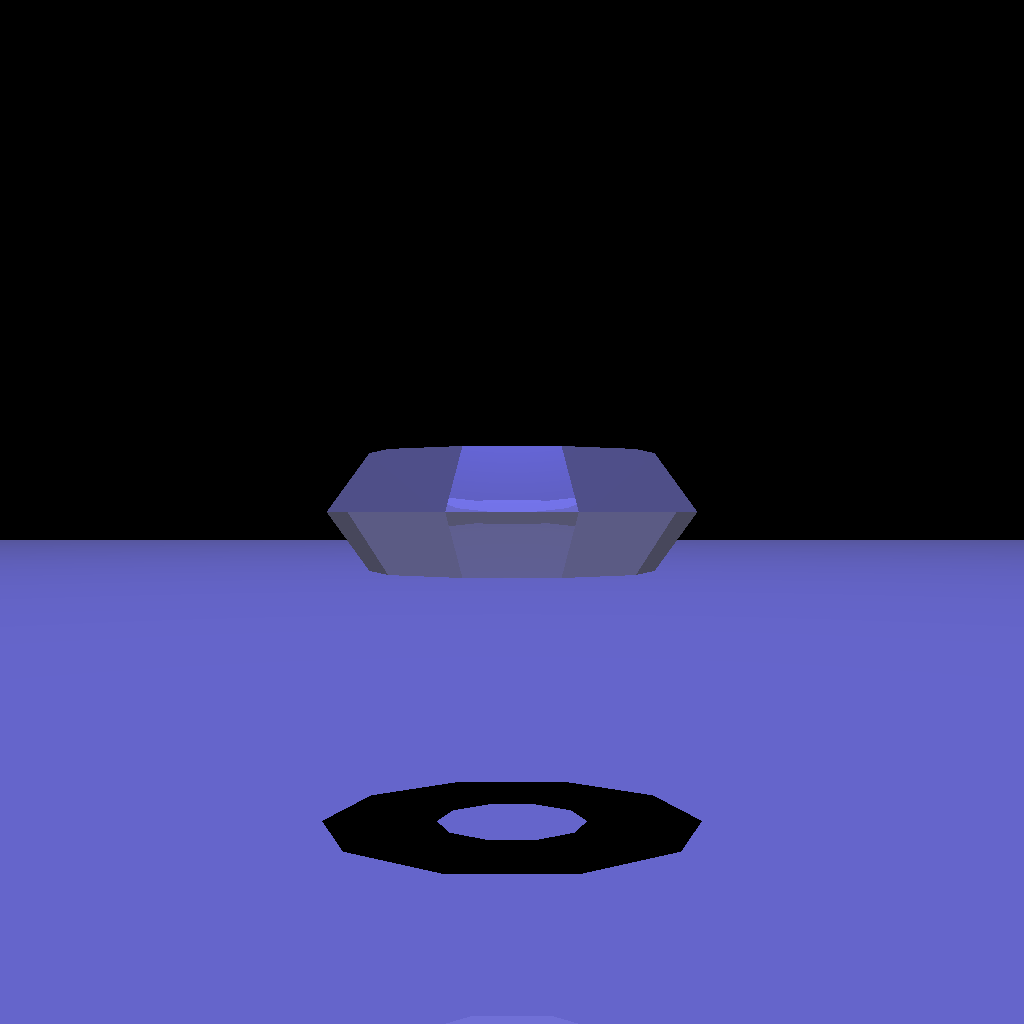
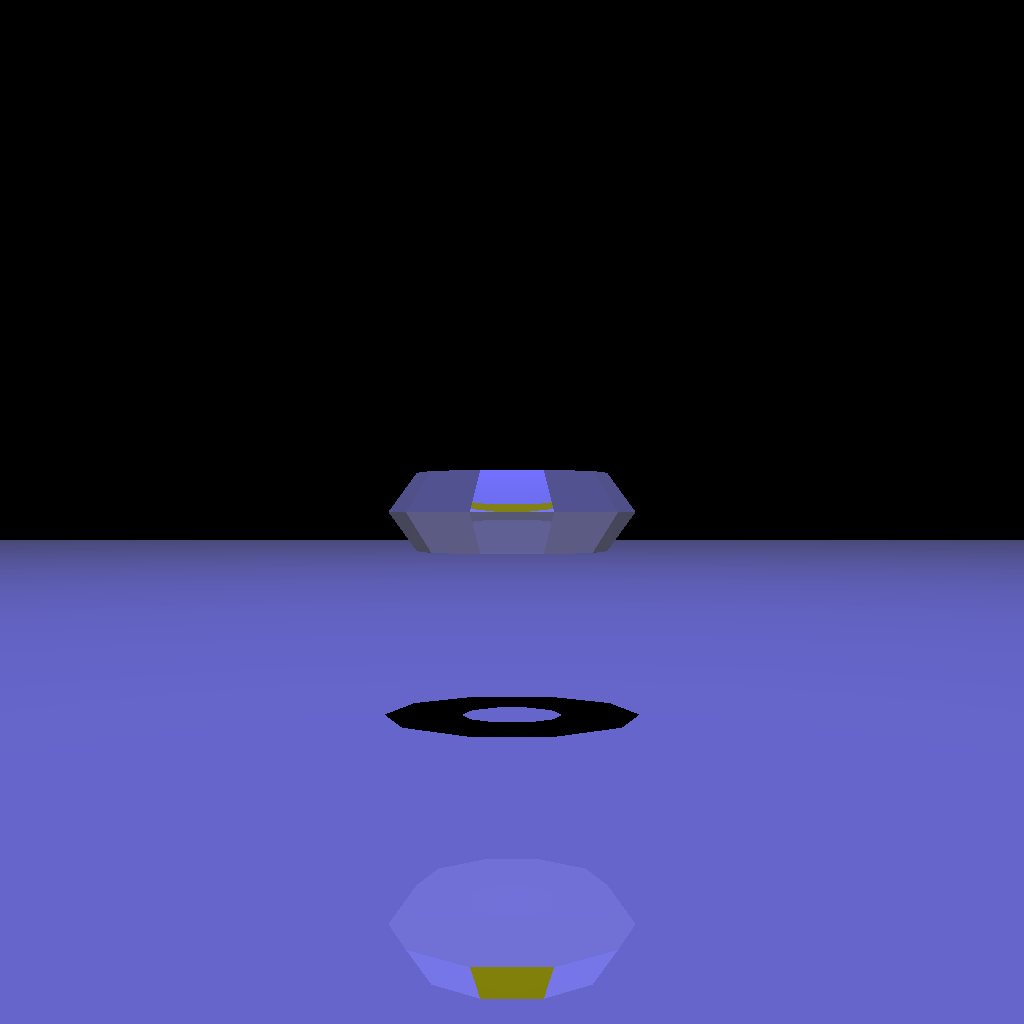
texture load order error should be fixed

diff --git a/PhysicallyBasedRendering/RayTracingSceneManager.cpp b/PhysicallyBasedRendering/RayTracingSceneManager.cpp
@@ -8,25 +8,27 @@ void RayTracingSceneManager::InitializeObjects()
 
 	SceneObject obj;
 	//obj.LoadModel("Obj/Fluid/0200.obj");
+	//obj.LoadModel("Obj/CornellBox.obj");
 	obj.LoadModel("Obj/torus.obj");
-	
+
 	sceneObjs.push_back(obj);
 
 	cameraInitPos = movingCamera->GetWorldPosition();
 
 	Light light;
-	light.pos = glm::vec3(0.0f, 200.0f, 0.0f);
+	light.pos = glm::vec3(0.0f, 100.0f, 0.0f);
 	light.color = glm::vec3(1.0f, 1.0f, 1.0f);
 	lights.push_back(light);
 
-	glm::mat4 translateMat = glm::translate(glm::vec3(0.0f, 0.0f, 0.0f));
+	glm::mat4 translateMat = glm::translate(glm::vec3(0.0f, 0.0f, -10.0f));
+	glm::mat4 scaleMat = glm::scale(glm::vec3(1.0f, 1.0f, 1.0f));
 	triangles = sceneObjs[0].GetTriangles();
 
 	for (int i = 0; i < triangles.size(); i++)
 	{
-		triangles[i].v0 = glm::vec3(translateMat * glm::vec4(triangles[i].v0, 1.0f));
-		triangles[i].v1 = glm::vec3(translateMat * glm::vec4(triangles[i].v1, 1.0f));
-		triangles[i].v2 = glm::vec3(translateMat * glm::vec4(triangles[i].v2, 1.0f));
+		triangles[i].v0 = glm::vec3(translateMat * scaleMat * glm::vec4(triangles[i].v0, 1.0f));
+		triangles[i].v1 = glm::vec3(translateMat * scaleMat * glm::vec4(triangles[i].v1, 1.0f));
+		triangles[i].v2 = glm::vec3(translateMat * scaleMat * glm::vec4(triangles[i].v2, 1.0f));
 	}
 
 	const float halfWidth = 200.0f;

diff --git a/PhysicallyBasedRendering/FourierTransform.cpp b/PhysicallyBasedRendering/FourierTransform.cpp
@@ -17,7 +17,7 @@ Texture2D FourierTransform::fourierTransform2D(const Texture2D& inputTexture, co
 	const int width = inputTexture.GetWidth();
 	const int height = inputTexture.GetHeight();
 
-	float* inArray = inputTexture.TexImage();
+	float* inArray = inputTexture.GetTexImage();
 	float* outArray = new float[width * height * 4];
 
 	fftw_complex* f = new fftw_complex[width * height];

diff --git a/PhysicallyBasedRendering/PixelBufferObject.cpp b/PhysicallyBasedRendering/PixelBufferObject.cpp
@@ -1,0 +1,10 @@
+#include "PixelBufferObject.h"
+
+void PixelBufferObject::GenPixelBufferObject(const int width, const int height)
+{
+	glGenBuffers(1, &pbo);
+	glBindBuffer(GL_PIXEL_UNPACK_BUFFER, pbo);
+	glBufferData(GL_PIXEL_UNPACK_BUFFER, width*height * 4, 0, GL_DYNAMIC_COPY);
+
+	cudaGLRegisterBufferObject(pbo);
+}

diff --git a/PhysicallyBasedRendering/PixelBufferObject.h b/PhysicallyBasedRendering/PixelBufferObject.h
@@ -1,0 +1,17 @@
+#pragma once
+
+#include <GL\glew.h>
+#include<cuda_gl_interop.h>
+
+class PixelBufferObject
+{
+public:
+	PixelBufferObject() {};
+
+	const GLuint& GetPBO() const { return pbo; }
+	void GenPixelBufferObject(const int width, const int height);
+
+private:
+
+	GLuint pbo;
+};

diff --git a/PhysicallyBasedRendering/Mesh.cpp b/PhysicallyBasedRendering/Mesh.cpp
@@ -51,6 +51,7 @@ void Mesh::SetMesh(aiMesh* mesh)
 		if (vertices[indices[i * 3 + 0]].normal == glm::vec3(0.0f, 0.0f, 0.0f))
 		{
 			triangle.normal = cross(triangle.v1 - triangle.v0, triangle.v2 - triangle.v0);
+			Debug::GetInstance()->Log(triangle.normal);
 		}
 		else
 		{

diff --git a/PhysicallyBasedRendering/RayTracingRenderer.h b/PhysicallyBasedRendering/RayTracingRenderer.h
@@ -26,7 +26,7 @@ private:
 	GLuint rayTracePBO;
 
 	Texture2D rayTracingTex;
+	Texture2D frontTex;
 
 	PNGExporter pngExporter;
-
 };

diff --git a/PhysicallyBasedRendering/FrameBufferObject.h b/PhysicallyBasedRendering/FrameBufferObject.h
@@ -5,6 +5,7 @@
 
 #include "RenderBufferObject.h"
 #include "Texture.h"
+#include "PixelBufferObject.h"
 
 using std::vector;
 
